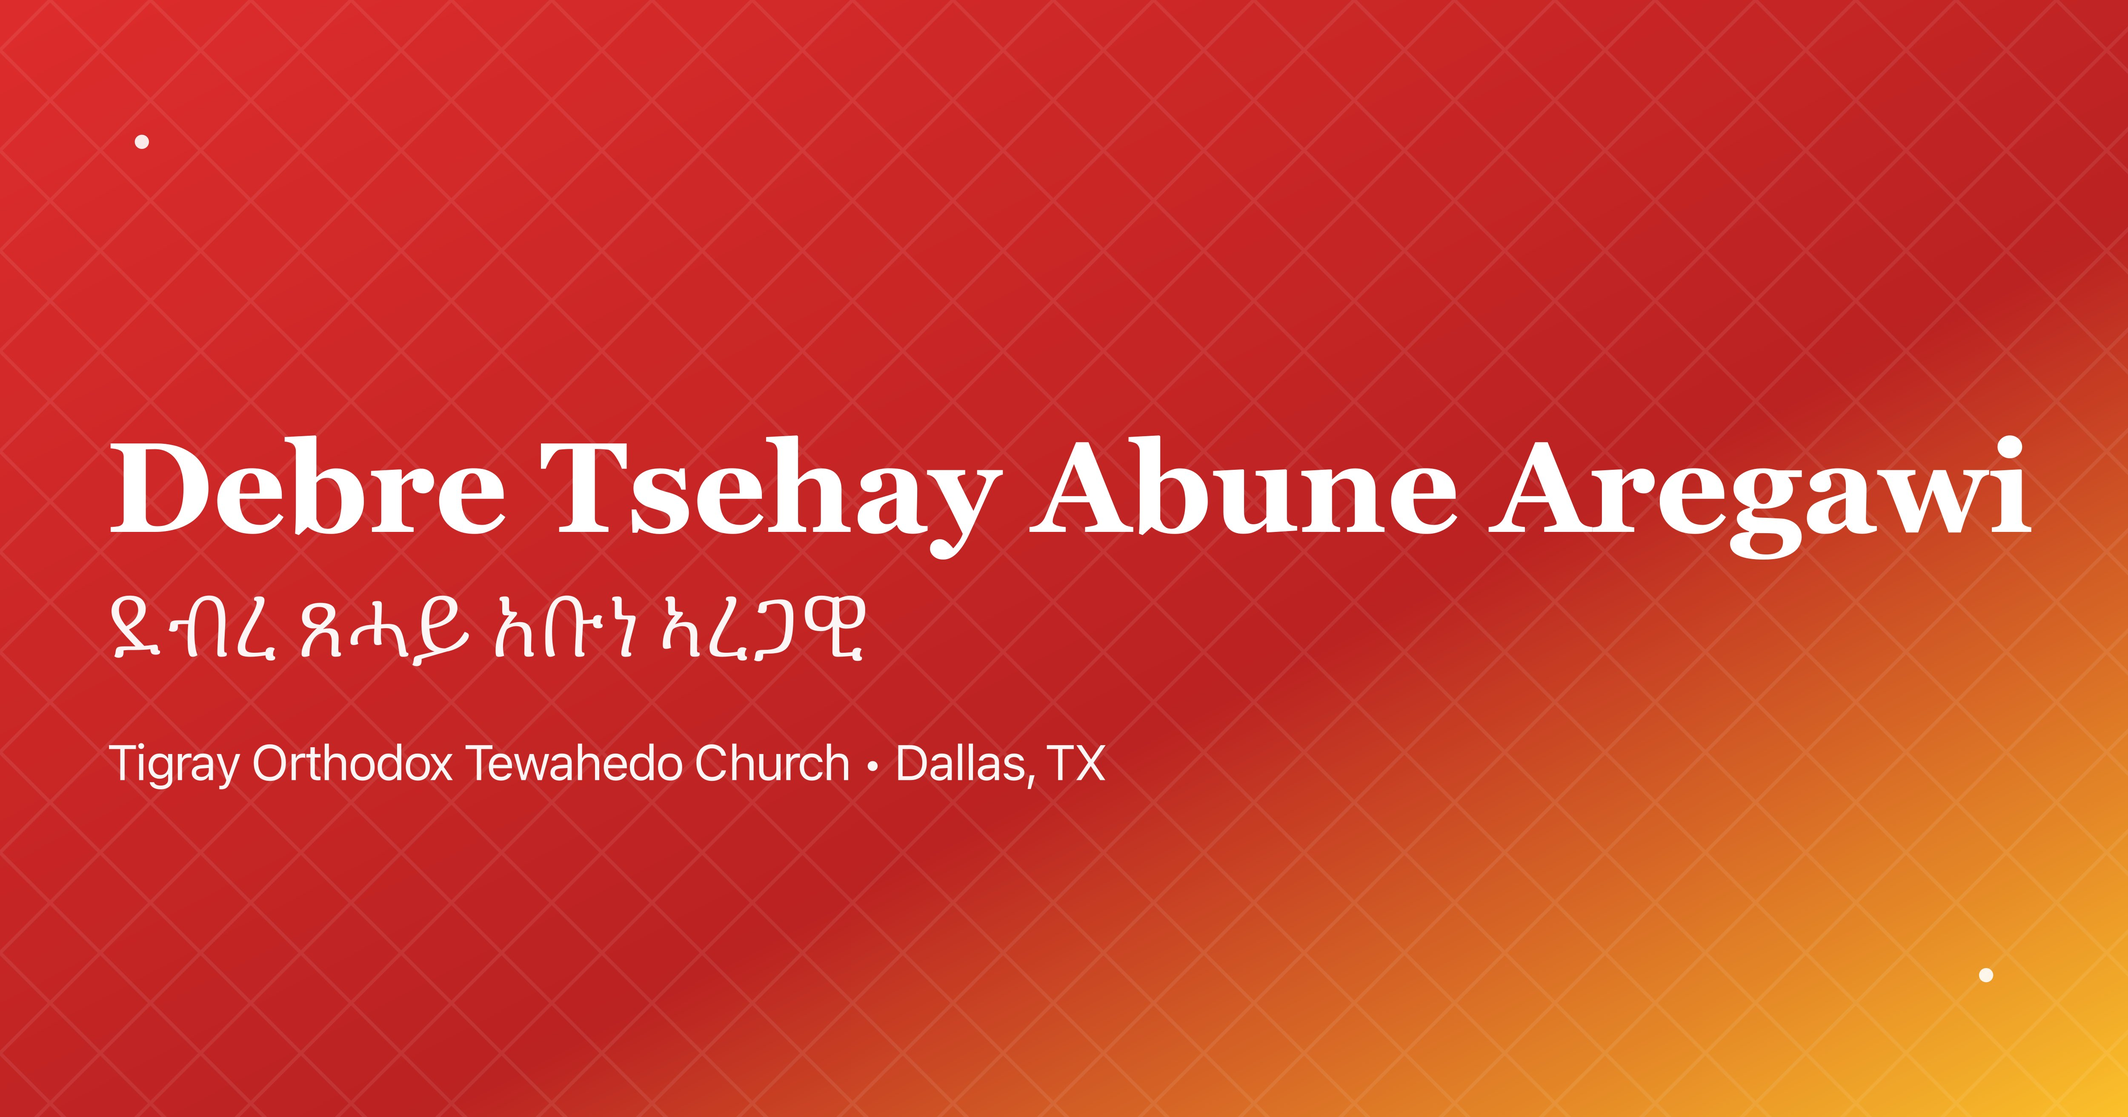
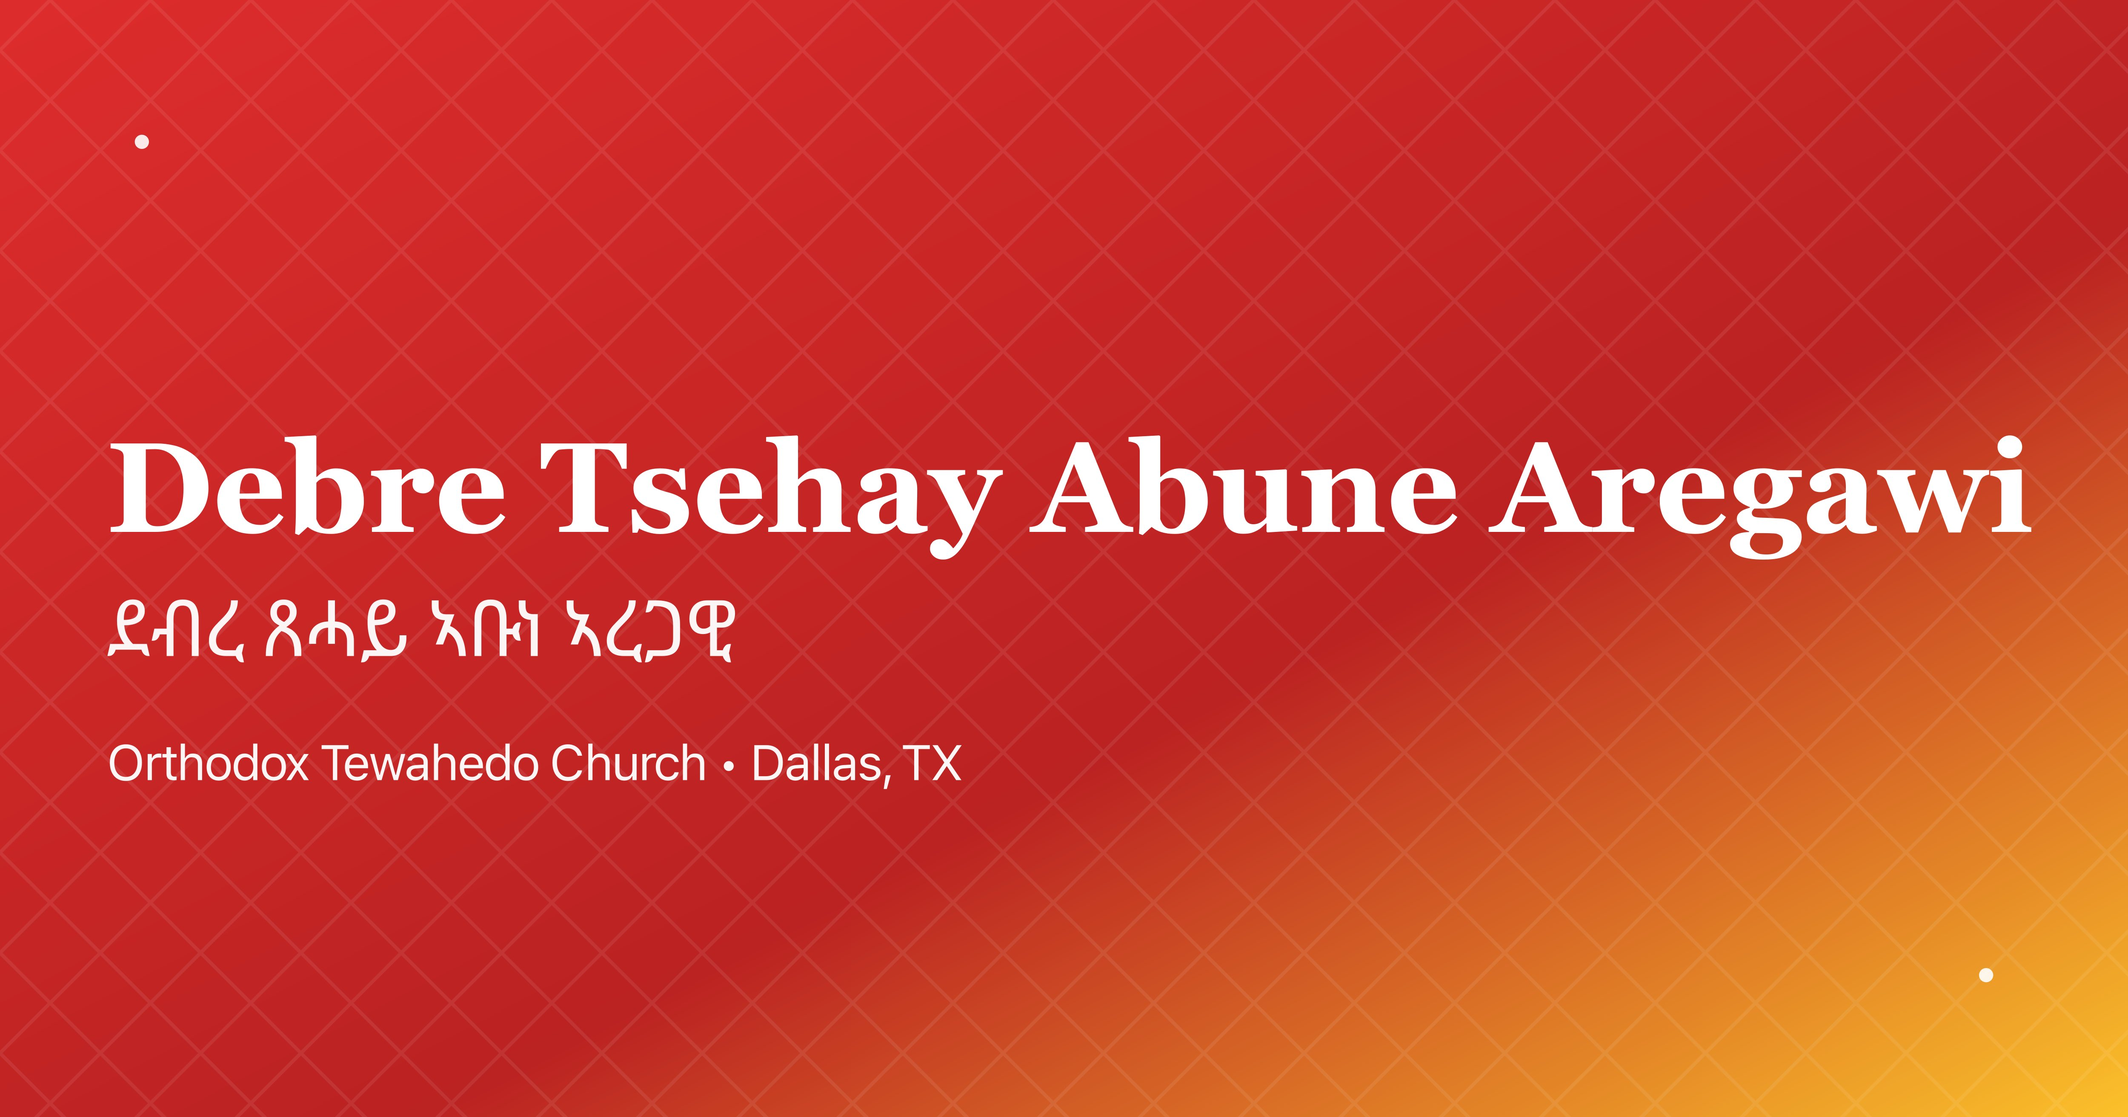
feat(branding): drop "Tigray" from the church name and translate the nav heading
The top navigation hardcoded the English church name, so switching to Tigrigna
left it untranslated. A church.name key with both languages already existed in
the legacy LanguageContext flat map, but Navigation reads from useI18n
(dictionaries.ts), which does not fall back to that map — wiring t('church.name')
alone would have rendered the literal key. Moved the key into dictionaries.ts,
per the migration path its own header comment documents, and removed the legacy
duplicate so there is one source of truth.

Name change: "Debre Tsehay Abune Aregawi Tigray Orthodox Tewahedo Church" ->
"Debre Tsehay Abune Aregawi Orthodox Tewahedo Church", applied wherever the
string is the church's NAME:
- church.name (en + ti), welcome.subtitle (en + ti), gallery.title
- Footer copyright, the Tigrigna DevBanner text
- print letterheads on MemberReports, PaymentReports, WeeklyCollectionReport
  and MeetingDetailsPage
- SEO: <title>, og:title, twitter:title, og:image:alt, publisher, schema.org
  name and legalName, meta descriptions, manifest.json, robots.txt
- the OG social-share image template (regenerated)

Deliberately unchanged:
- meta and schema keyword lists still carry "Tigray Orthodox Church" as a search
  term people actually type
- the SMS consent disclaimer still names the old sender, pending a check against
  the registered 10DLC brand — a mismatch there is a compliance problem
- "Tigray Orthodox Faith Teachings" and "Tigray Hunger Fundraiser", which name a
[…]

Changed region(s): [[0.0312, 0.656, 0.5304, 0.7185], [0.0312, 0.531, 0.4056, 0.5935]]

diff --git a/frontend/public/index.html b/frontend/public/index.html
@@ -8,13 +8,13 @@
   <meta name="viewport" content="width=device-width, initial-scale=1" />
   <meta name="theme-color" content="#000000" />
   <meta name="description"
-    content="Debre Tsehay Abune Aregawi Tigray Orthodox Tewahedo Church in Dallas, Texas. Join our vibrant Ethiopian Orthodox community. Services in Tigrigna, Amharic, and English. Located in Garland, TX." />
+    content="Debre Tsehay Abune Aregawi Orthodox Tewahedo Church in Dallas, Texas. Join our vibrant Ethiopian Orthodox community. Services in Tigrigna, Amharic, and English. Located in Garland, TX." />
   <meta name="keywords"
     content="Ethiopian Orthodox Church, Tigray Orthodox Church, Abune Aregawi, Orthodox Church Dallas, Orthodox Church Garland Texas, Tigrigna Church, Amharic Church, Ethiopian Church Dallas, Tewahedo Church, Debre Tsehay, Orthodox Christianity, Ethiopian Community Dallas" />
 
   <!-- SEO Meta Tags -->
   <meta name="author" content="Debre Tsehay Abune Aregawi Church" />
-  <meta name="publisher" content="Debre Tsehay Abune Aregawi Tigray Orthodox Tewahedo Church" />
+  <meta name="publisher" content="Debre Tsehay Abune Aregawi Orthodox Tewahedo Church" />
   <meta name="robots" content="index, follow, max-image-preview:large, max-snippet:-1, max-video-preview:-1" />
   <meta name="googlebot" content="index, follow" />
   <link rel="canonical" href="https://abunearegawi.church/" />
@@ -43,21 +43,21 @@
   <meta property="og:locale:alternate" content="ti_ER" />
   <meta property="og:locale:alternate" content="am_ET" />
   <meta property="og:site_name" content="Debre Tsehay Abune Aregawi Church" />
-  <meta property="og:title" content="Debre Tsehay Abune Aregawi - Tigray Orthodox Church Dallas" />
+  <meta property="og:title" content="Debre Tsehay Abune Aregawi - Orthodox Tewahedo Church Dallas" />
   <meta property="og:description"
-    content="Tigray Orthodox Tewahedo Church serving the Ethiopian community in Dallas, Texas. Services in Tigrigna, Amharic, and English. Join us at Abune Aregawi Church in Garland, TX." />
+    content="Debre Tsehay Abune Aregawi Orthodox Tewahedo Church serving the Ethiopian community in Dallas, Texas. Services in Tigrigna, Amharic, and English. Join us at Abune Aregawi Church in Garland, TX." />
   <meta property="og:url" content="https://abunearegawi.church/" />
   <meta property="og:image" content="https://abunearegawi.church/og-image.jpg" />
   <meta property="og:image:type" content="image/jpeg" />
   <meta property="og:image:width" content="1200" />
   <meta property="og:image:height" content="630" />
-  <meta property="og:image:alt" content="Debre Tsehay Abune Aregawi Tigray Orthodox Church" />
+  <meta property="og:image:alt" content="Debre Tsehay Abune Aregawi Orthodox Tewahedo Church" />
 
   <!-- Twitter Card -->
   <meta name="twitter:card" content="summary_large_image" />
-  <meta name="twitter:title" content="Debre Tsehay Abune Aregawi - Tigray Orthodox Church Dallas" />
+  <meta name="twitter:title" content="Debre Tsehay Abune Aregawi - Orthodox Tewahedo Church Dallas" />
   <meta name="twitter:description"
-    content="Tigray Orthodox Tewahedo Church in Dallas, TX. Services in Tigrigna, Amharic, and English. Join our Ethiopian Orthodox community." />
+    content="Debre Tsehay Abune Aregawi Orthodox Tewahedo Church in Dallas, TX. Services in Tigrigna, Amharic, and English. Join our Ethiopian Orthodox community." />
   <meta name="twitter:image" content="https://abunearegawi.church/og-image.jpg" />
   <meta name="twitter:image:alt" content="Debre Tsehay Abune Aregawi Church" />
   <!--
@@ -75,9 +75,9 @@
     {
       "@context": "https://schema.org",
       "@type": "Church",
-      "name": "Debre Tsehay Abune Aregawi Tigray Orthodox Tewahedo Church",
+      "name": "Debre Tsehay Abune Aregawi Orthodox Tewahedo Church",
       "alternateName": "Abune Aregawi Ethiopian Orthodox Church Dallas",
-      "description": "Tigray Orthodox Tewahedo Church serving the Ethiopian community in Dallas, Texas. Services in Tigrigna, Amharic, and English.",
+      "description": "Debre Tsehay Abune Aregawi Orthodox Tewahedo Church serving the Ethiopian community in Dallas, Texas. Services in Tigrigna, Amharic, and English.",
       "url": "https://abunearegawi.church/",
       "logo": "https://abunearegawi.church/cropped-AbuneAregawi-192x192.png",
       "image": "https://abunearegawi.church/og-image.jpg",
@@ -136,7 +136,7 @@
       "@context": "https://schema.org",
       "@type": "Organization",
       "name": "Debre Tsehay Abune Aregawi Church",
-      "legalName": "Debre Tsehay Abune Aregawi Tigray Orthodox Tewahedo Church",
+      "legalName": "Debre Tsehay Abune Aregawi Orthodox Tewahedo Church",
       "url": "https://abunearegawi.church/",
       "logo": "https://abunearegawi.church/cropped-AbuneAregawi-192x192.png",
       "foundingDate": "2015",
@@ -167,7 +167,7 @@
     }
     </script>
 
-  <title>Debre Tsehay Abune Aregawi - Tigray Orthodox Church Dallas </title>
+  <title>Debre Tsehay Abune Aregawi - Orthodox Tewahedo Church Dallas </title>
 
   <!-- Suppress benign reCAPTCHA/Firebase Timeout rejections that fire after
        phone-number login. Must live here (before React bundles) so it registers

diff --git a/frontend/src/i18n/dictionaries.ts b/frontend/src/i18n/dictionaries.ts
@@ -63,6 +63,12 @@ export interface Dictionaries {
       culture: { title: string; desc: string };
     };
   };
+  docViewer?: {
+    openInNewTab: string;
+    download: string;
+    close: string;
+    unavailable: string;
+  };
   quicklinks: {
     priest: string;
     serviceTimes: string;
@@ -717,7 +723,15 @@ export const en: Dictionaries = {
     welcomeBack: "Welcome Back",
     loginSubtitle: "Sign in to access your community account",
   },
+  docViewer: {
+    openInNewTab: "Open in new tab",
+    download: "Download slides (.pptx)",
+    close: "Close",
+    unavailable: "If the document does not appear, open it in a new tab or download the slides."
+  },
   language: "Language",
+  // Full church name shown in the top navigation bar.
+  'church.name': 'Debre Tsehay Abune Aregawi Orthodox Tewahedo Church',
   hero: {
     title: "Welcome to Abune Aregawi Orthodox Tewahedo Church",
     subtitle: "Join us for worship, fellowship, and service. English & ትግርኛ",
@@ -752,8 +766,8 @@ export const en: Dictionaries = {
         desc: "Join us in supporting our community through outreach and charity programs."
       },
       teachings: {
-        title: "Tigray Orthodox Faith Teachings",
-        desc: "Explore the rich traditions and teachings of the Tigray Orthodox faith."
+        title: "Raising Children in the Orthodox Tewahedo Faith",
+        desc: "A guide for parents — helping children know, love, and live for God through prayer, worship, Scripture, and the life of the Church."
       },
       culture: {
         title: "Cultural Celebrations",
@@ -2508,7 +2522,15 @@ export const ti: Dictionaries = {
     welcomeBack: "እንኳዕ ብደሓን መጻእኩም",
     loginSubtitle: "ናብ ማሕበረሰብ ኣካውንትኩም ንምእታው እተኻ",
   },
+  docViewer: {
+    openInNewTab: "ኣብ ሓድሽ ታብ ክፈት",
+    download: "ስላይዳት ኣውርድ (.pptx)",
+    close: "ዕጸ",
+    unavailable: "እቲ ሰነድ እንተዘይተራእየ፡ ኣብ ሓድሽ ታብ ክፈትዎ ወይ ስላይዳት ኣውርዱ።"
+  },
   language: "ቋንቋ",
+  // Full church name shown in the top navigation bar.
+  'church.name': 'ደብረ ጸሓይ ኣቡነ ኣረጋዊ ኦርቶዶክስ ተዋሕዶ ቤተ ክርስቲያን',
   hero: {
     // እንኳዕ ብደሓን መጻእኩም = “Welcome”
     // ቤ/ክ = ቤተ ክርስቲያን (shorthand)

diff --git a/frontend/src/components/__tests__/Navigation.test.tsx b/frontend/src/components/__tests__/Navigation.test.tsx
@@ -1,0 +1,55 @@
+import React from 'react';
+import { render, screen } from '@testing-library/react';
+import '@testing-library/jest-dom';
+import { MemoryRouter } from 'react-router-dom';
+import Navigation from '../Navigation';
+import { en, ti } from '../../i18n/dictionaries';
+
+// Drives Navigation's t() off the real dictionaries so the assertions below
+// prove the heading is looked up, not hardcoded.
+let mockActiveLang: 'en' | 'ti' = 'en';
+jest.mock('../../i18n/I18nProvider', () => ({
+  useI18n: () => {
+    const dicts = jest.requireActual('../../i18n/dictionaries');
+    const dict = mockActiveLang === 'ti' ? dicts.ti : dicts.en;
+    return {
+      lang: mockActiveLang,
+      setLang: jest.fn(),
+      // Mirrors the provider's dot-path lookup with an English fallback
+      t: (key: string) => {
+        const walk = (o: any) => key.split('.').reduce((acc, k) => acc?.[k], o);
+        return dict[key] ?? walk(dict) ?? dicts.en[key] ?? walk(dicts.en) ?? key;
+      }
+    };
+  }
+}));
+
+jest.mock('../../contexts/AuthContext', () => ({
+  useAuth: () => ({ currentUser: null, logout: jest.fn(), getUserProfile: jest.fn() })
+}));
+
+const renderNav = (lang: 'en' | 'ti') => {
+  mockActiveLang = lang;
+  return render(<MemoryRouter><Navigation /></MemoryRouter>);
+};
+
+afterEach(() => { mockActiveLang = 'en'; });
+
+describe('Navigation church name heading', () => {
+  it('renders the English church name when the language is English', () => {
+    renderNav('en');
+    expect(screen.getByText(en['church.name'])).toBeInTheDocument();
+  });
+
+  it('renders the Tigrigna church name when the language is Tigrigna', () => {
+    renderNav('ti');
+    expect(screen.getByText(ti['church.name'])).toBeInTheDocument();
+    // The heading used to be hardcoded English — it must not survive the switch
+    expect(screen.queryByText(en['church.name'])).not.toBeInTheDocument();
+  });
+
+  it('has a distinct Tigrigna translation for the church name', () => {
+    expect(ti['church.name']).toBeTruthy();
+    expect(ti['church.name']).not.toBe(en['church.name']);
+  });
+});

diff --git a/frontend/src/contexts/LanguageContext.tsx b/frontend/src/contexts/LanguageContext.tsx
@@ -16,9 +16,9 @@ export const LanguageContext = createContext<LanguageContextType | undefined>(un
 const translations = {
   en: {
     // Hero Section
-    'church.name': 'Debre Tsehay Abune Aregawi Tigray Orthodox Tewahedo Church',
+    // 'church.name' migrated to dictionaries.ts (used by Navigation via useI18n)
     'welcome.headline': 'Welcome to Our Spiritual Home',
-    'welcome.subtitle': 'Welcome to Debre Tsehay Abune Aregawi Tigray Orthodox Tewahedo Church',
+    'welcome.subtitle': 'Welcome to Debre Tsehay Abune Aregawi Orthodox Tewahedo Church',
 
     // Service Times
     'service.times': 'Service Times',
@@ -518,7 +518,7 @@ const translations = {
     'emergency.contact.phone.required': 'Emergency contact phone is required',
 
     // Gallery
-    'gallery.title': 'Abune Aregawi Tigray Orthodox Church Gallery',
+    'gallery.title': 'Abune Aregawi Orthodox Tewahedo Church Gallery',
     'gallery.subtitle': 'Capturing moments of faith, community, and celebration',
     'gallery.upload': 'Upload Photo',
     'gallery.uploading': 'Uploading...',
@@ -581,9 +581,9 @@ const translations = {
   },
   ti: {
     // Hero Section
-    'church.name': 'ደብረ ጸሓይ አቡነ አረጋዊ ትግራይ ኦርቶዶክስ ተዋሕዶ ቤተ ክርስቲያን',
+    // 'church.name' migrated to dictionaries.ts (used by Navigation via useI18n)
     'welcome.headline': 'ናብ መንበረ ስፍሓትና ብደሓን መጻእኩም',
-    'welcome.subtitle': 'እንኳዕ ናብ ቤተ ክርስትያን ኦርቶዶክስ ትግራይ ኣቡነ ኣረጋዊ ብደሓን መጻእኩም!',
+    'welcome.subtitle': 'እንኳዕ ናብ ቤተ ክርስትያን ኦርቶዶክስ ኣቡነ ኣረጋዊ ብደሓን መጻእኩም!',
 
     // Service Times
     'service.times': 'ግዜ ኣገልግሎት',

diff --git a/frontend/src/components/DevBanner.tsx b/frontend/src/components/DevBanner.tsx
@@ -57,7 +57,7 @@ export default function DevBanner() {
     'This application is currently under development. Some sections may still be incomplete. We ask for your patience. Your help in identifying any issues would be a great blessing to us. God bless you.';
 
   const tigrignaMsg =
-    'እንኳዕ ደሓን መጻእኩም። እዚ ንኦርቶዶክስ ተዋህዶ ቤተክርስቲያን ትግራይ ዝኸውን መርበብ ሓበሬታ ኣብዚ ሕዚ እዋን ኣብ ምምዕባል ይርከብ። ገለ ክፍልታት ገና ዘይተማልኡ ክኾኑ ይኽእሉ እዮም። ትዕግስትኹም ንሓትት። ዝኾነ ጉዳይ ኣብ ምልላይ ትገብርዎ ሓገዝ ዓቢ በረኸት ምኾነና። ኣምላኽ እግዚአብሔር ይባርክኩም።';
+    'እንኳዕ ደሓን መጻእኩም። እዚ ንኦርቶዶክስ ተዋህዶ ቤተክርስቲያን ኣቡነ ኣረጋዊ ዝኸውን መርበብ ሓበሬታ ኣብዚ ሕዚ እዋን ኣብ ምምዕባል ይርከብ። ገለ ክፍልታት ገና ዘይተማልኡ ክኾኑ ይኽእሉ እዮም። ትዕግስትኹም ንሓትት። ዝኾነ ጉዳይ ኣብ ምልላይ ትገብርዎ ሓገዝ ዓቢ በረኸት ምኾነና። ኣምላኽ እግዚአብሔር ይባርክኩም።';
 
   const content = language === 'ti' ? tigrignaMsg : englishMsg;
 

diff --git a/frontend/src/components/admin/MeetingDetailsPage.tsx b/frontend/src/components/admin/MeetingDetailsPage.tsx
@@ -257,7 +257,7 @@ const MeetingDetailsPage: React.FC = () => {
                 <div className="hidden print:block mb-8 border-b-2 border-gray-900 pb-5">
                     <div className="text-center">
                         <p className="text-xs font-semibold uppercase tracking-[0.35em] text-gray-500">
-                            Debre Tsehay Abune Aregawi Tigray Orthodox Tewahedo Church
+                            Debre Tsehay Abune Aregawi Orthodox Tewahedo Church
                         </p>
                         <h1 className="mt-3 text-3xl font-bold text-gray-900 font-serif">
                             {meeting.title}

diff --git a/frontend/src/components/sections/Footer.tsx b/frontend/src/components/sections/Footer.tsx
@@ -36,7 +36,7 @@ const Footer: React.FC = () => {
           </div>
         </div>
         <div className="text-center mt-8 pt-8 border-t border-accent-400">
-          <p className="text-white/90">&copy; 2026 Tigray Orthodox Church. All rights reserved.</p>
+          <p className="text-white/90">&copy; 2026 Debre Tsehay Abune Aregawi Orthodox Tewahedo Church. All rights reserved.</p>
           <p className="mt-4 flex items-center justify-center gap-4">
             {/* <a href="/credits" className="text-secondary-200 hover:text-secondary-100 transition-colors">
               <i className="fas fa-code mr-2"></i>

diff --git a/frontend/src/components/admin/MemberReports.tsx b/frontend/src/components/admin/MemberReports.tsx
@@ -293,7 +293,7 @@ const MemberReports: React.FC = () => {
           className="mx-auto mb-2"
           style={{ width: '64px', height: '64px' }}
         />
-        <h1 className="text-2xl font-bold text-gray-900 font-serif">Debre Tsehay Abune Aregawi Tigray Orthodox Tewahedo Church</h1>
+        <h1 className="text-2xl font-bold text-gray-900 font-serif">Debre Tsehay Abune Aregawi Orthodox Tewahedo Church</h1>
         <h2 className="text-lg font-semibold text-gray-800 mt-1">
           {reportType === 'household_directory' ? t('householdReport.title') : t('memberInfoReport.title')}
         </h2>

diff --git a/frontend/src/components/admin/PaymentReports.tsx b/frontend/src/components/admin/PaymentReports.tsx
@@ -360,7 +360,7 @@ const PaymentReports: React.FC<PaymentReportsProps> = ({ paymentView }) => {
     <div className="space-y-6 print:space-y-0">
       {/* Print Header */}
       <div className="hidden print:block text-center mb-8">
-        <h1 className="text-2xl font-bold text-gray-900 font-serif">Debre Tsehay Abune Aregawi Tigray Orthodox Tewahedo Church</h1>
+        <h1 className="text-2xl font-bold text-gray-900 font-serif">Debre Tsehay Abune Aregawi Orthodox Tewahedo Church</h1>
         <p className="text-sm text-gray-500 mt-1">{new Date().toLocaleDateString()}</p>
       </div>
 

diff --git a/frontend/src/components/admin/WeeklyCollectionReport.tsx b/frontend/src/components/admin/WeeklyCollectionReport.tsx
@@ -260,7 +260,7 @@ const WeeklyCollectionReport: React.FC = () => {
     <div className="space-y-6 print:space-y-0">
       {/* Print Header */}
       <div className="hidden print:block text-center mb-8">
-        <h1 className="text-2xl font-bold text-gray-900 font-serif">Debre Tsehay Abune Aregawi Tigray Orthodox Tewahedo Church</h1>
+        <h1 className="text-2xl font-bold text-gray-900 font-serif">Debre Tsehay Abune Aregawi Orthodox Tewahedo Church</h1>
         <p className="text-sm text-gray-500 mt-1">{new Date().toLocaleDateString()}</p>
       </div>
 

diff --git a/frontend/src/components/Navigation.tsx b/frontend/src/components/Navigation.tsx
@@ -90,7 +90,7 @@ const Navigation: React.FC = () => {
             <Link to="/" className="flex items-center space-x-2 hover:opacity-90 transition-opacity" onClick={() => setIsMenuOpen(false)}>
               <i className="fas fa-church text-2xl text-white"></i>
               <span className="text-lg md:text-xl font-bold text-white hidden sm:inline-block ml-2">
-                Debre Tsehay Abune Aregawi Tigray Orthodox Tewahedo Church
+                {t('church.name')}
               </span>
             </Link>
           </div>

diff --git a/frontend/src/App.test.tsx b/frontend/src/App.test.tsx
@@ -64,7 +64,7 @@ const renderApp = (initialEntries = ['/']) => {
 
 // Mock the components that are rendered by the routes
 jest.mock('./components/HomePage', () => () => (
-  <div>Debre Tsehay Abune Aregawi Tigray Orthodox Tewahedo Church</div>
+  <div>Debre Tsehay Abune Aregawi Orthodox Tewahedo Church</div>
 ));
 
 describe('App', () => {
